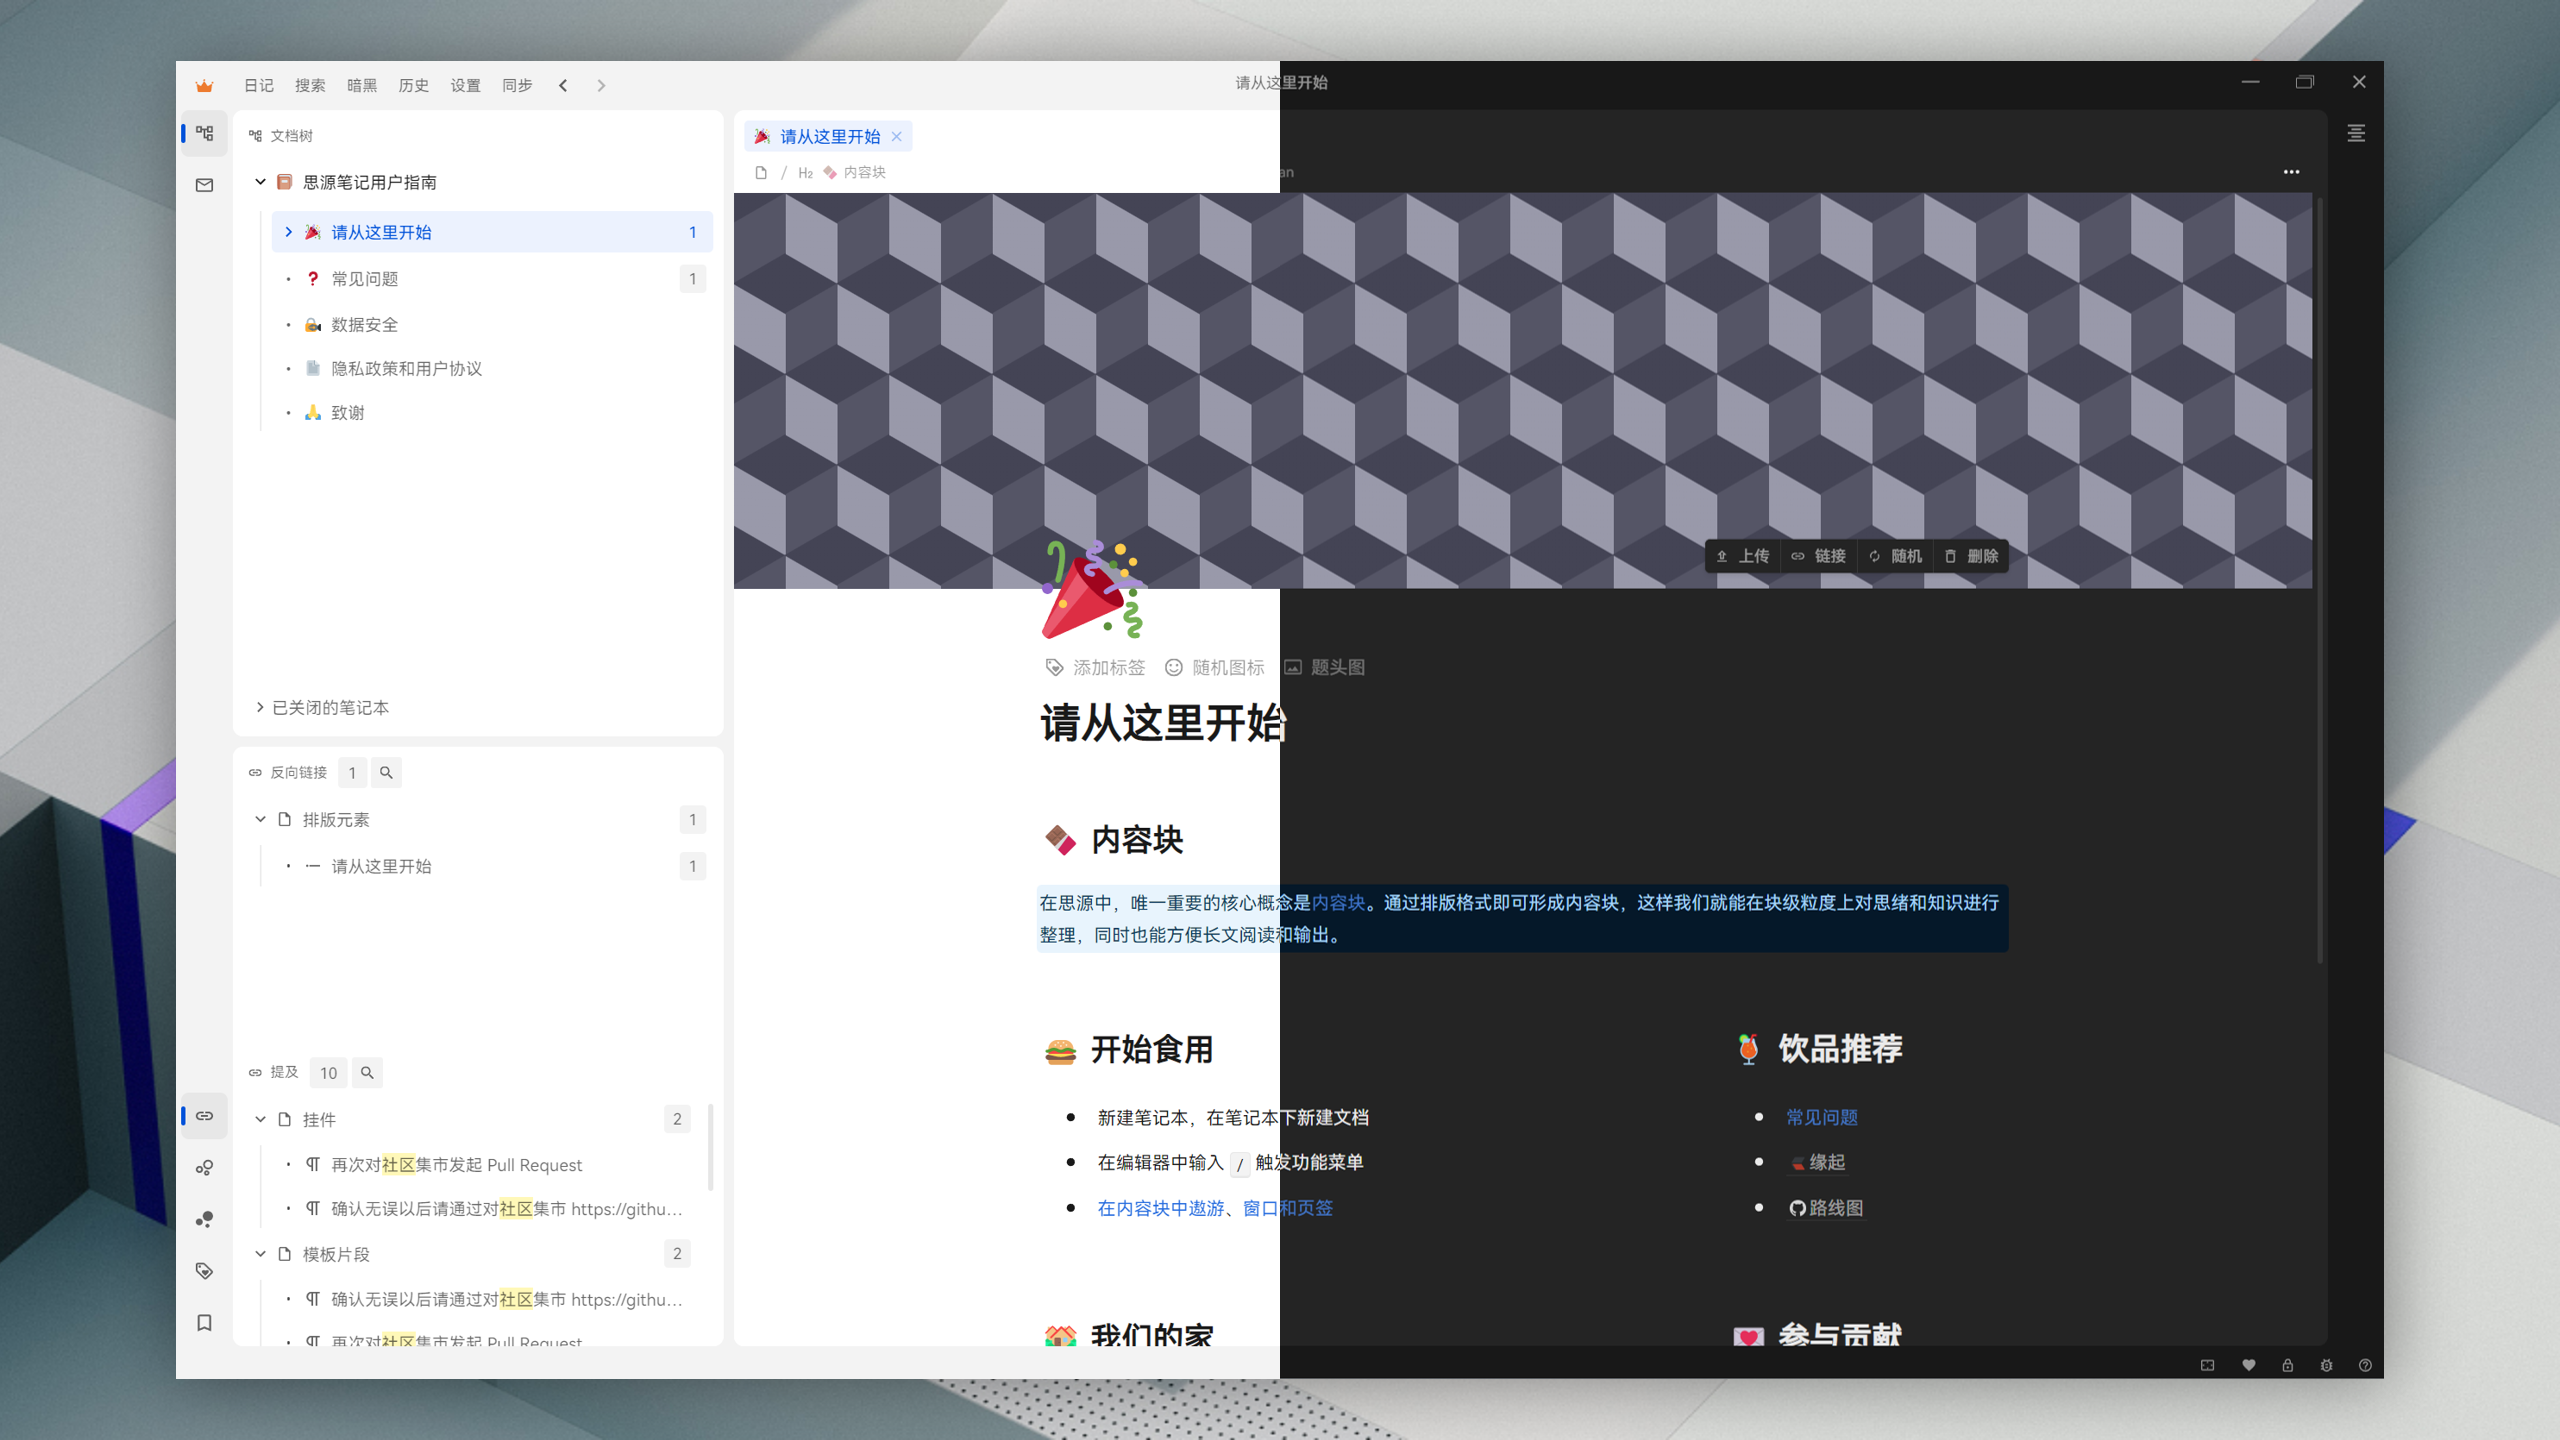
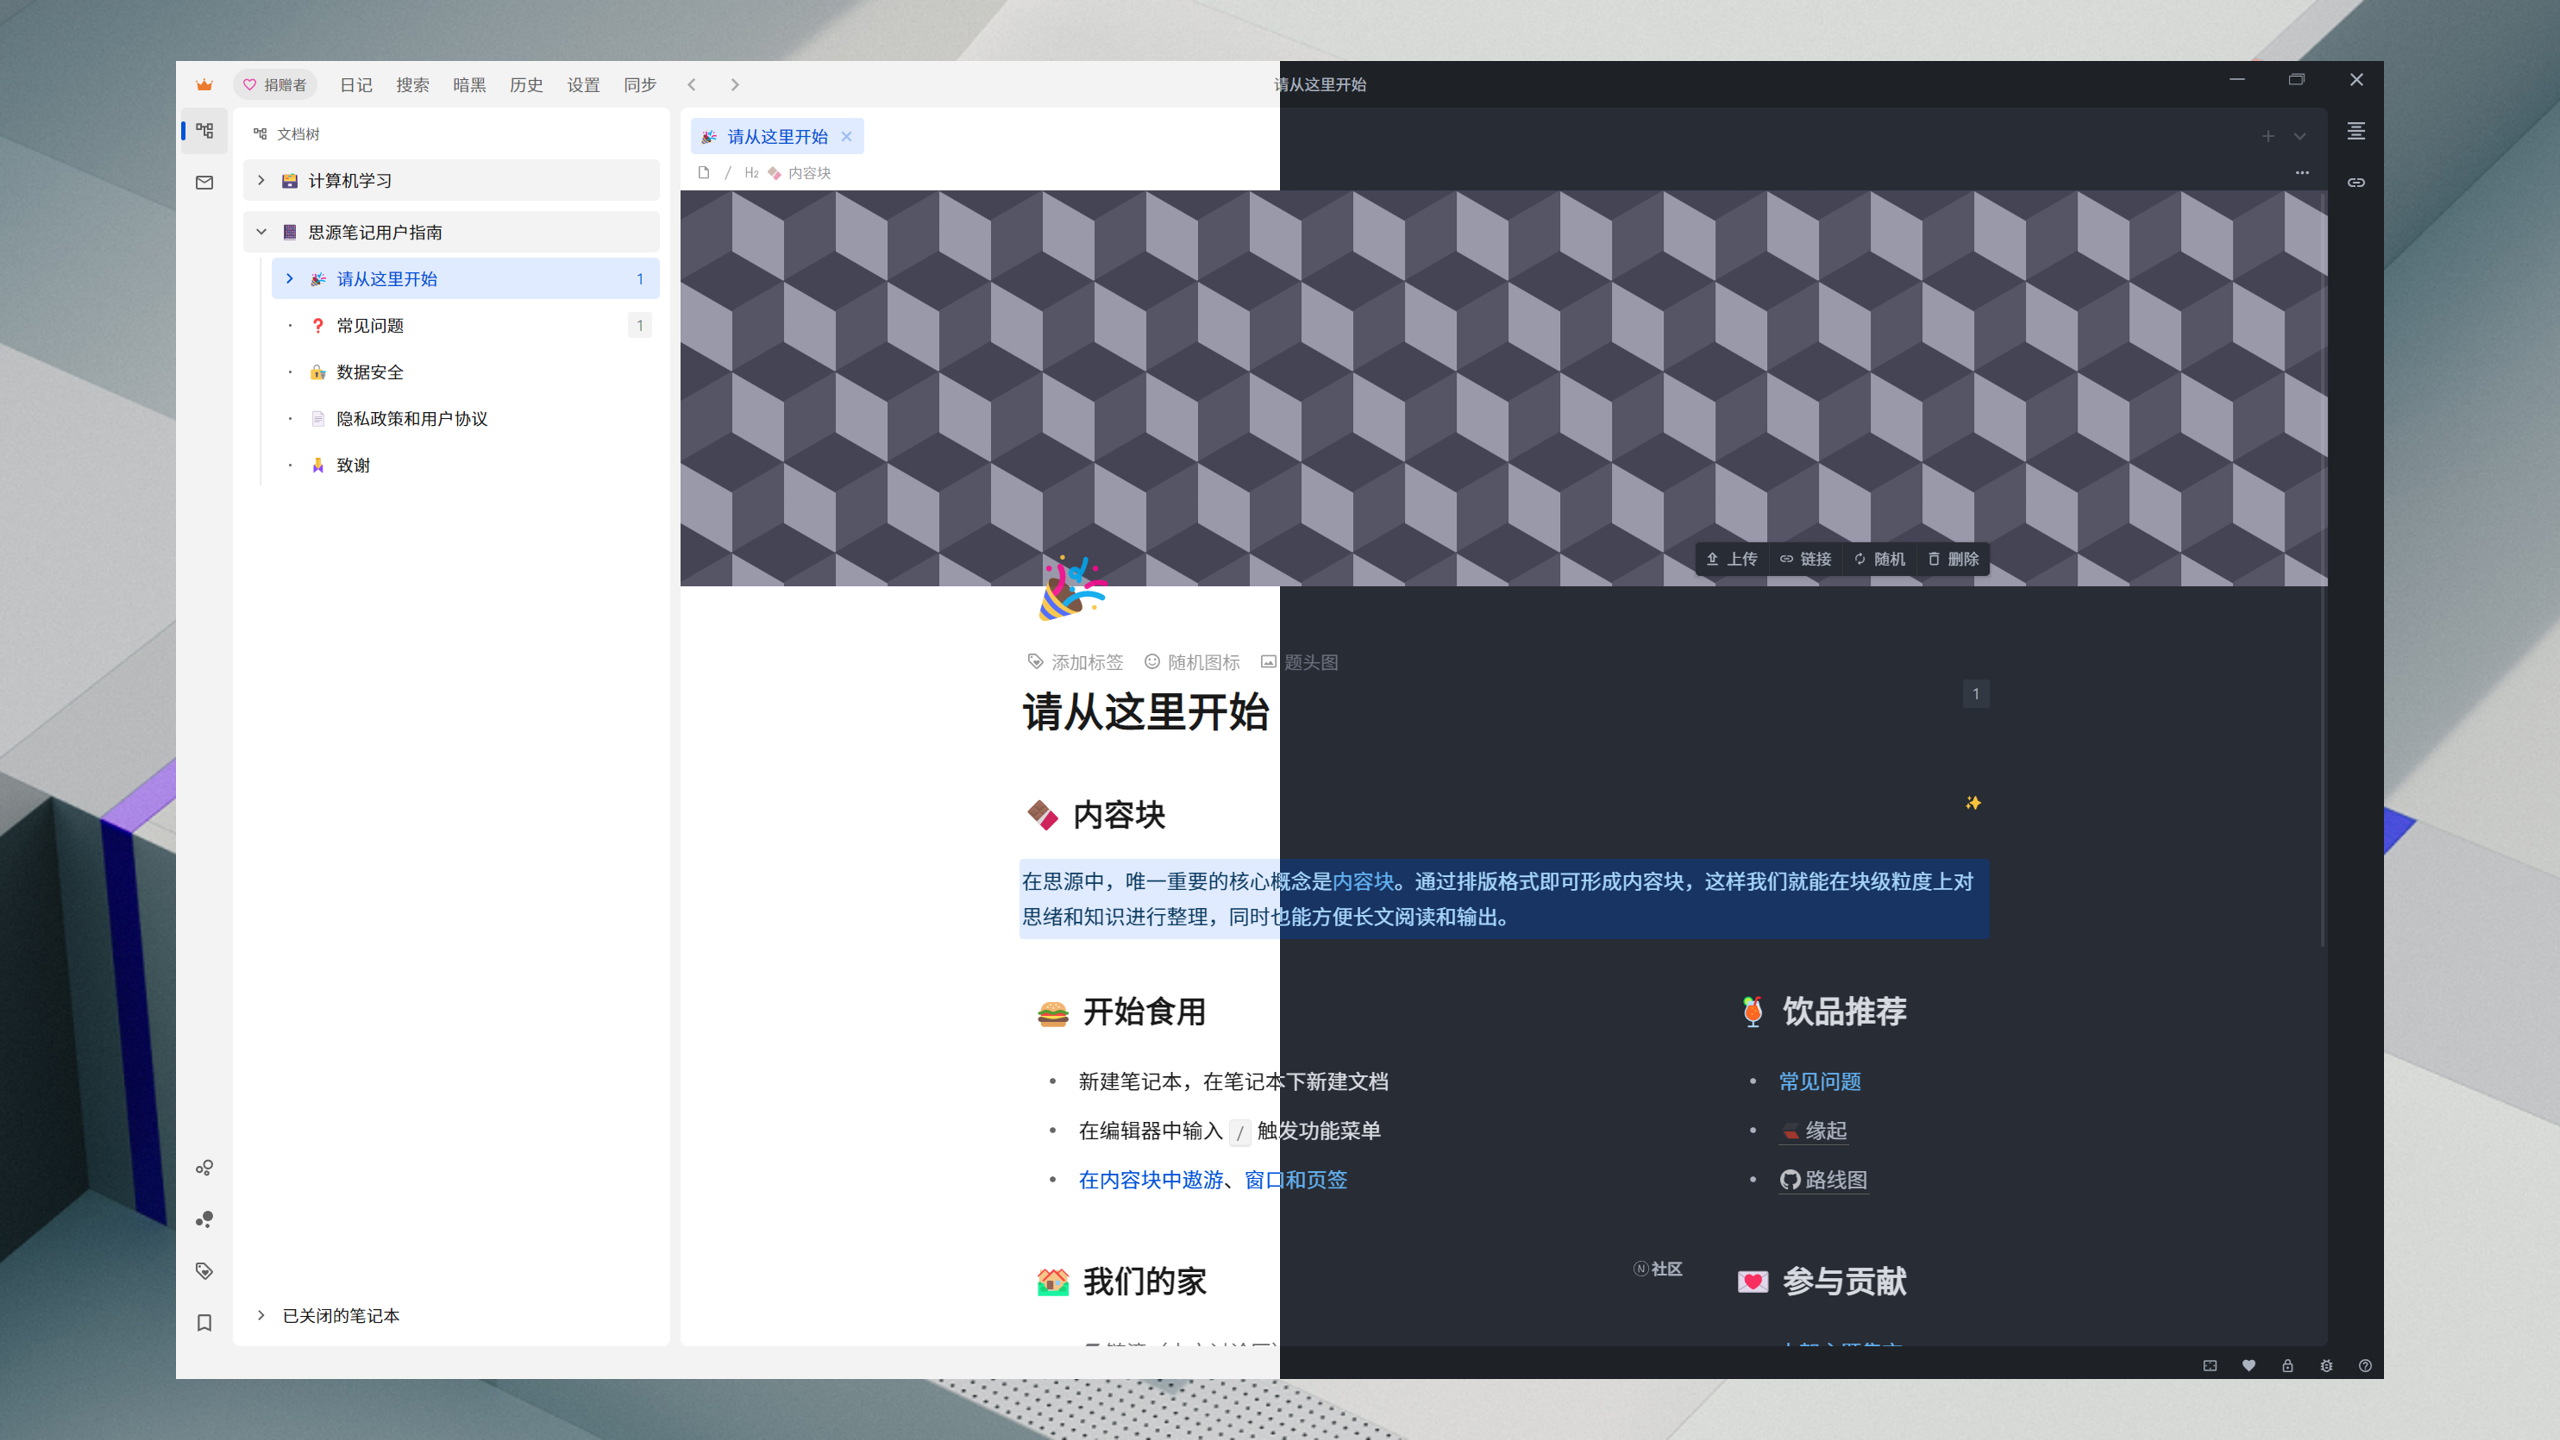
docs: :memo: 更新readme及预览图

diff --git a/README.md b/README.md
@@ -8,7 +8,7 @@
 
 一款现代化、平面化设计的思源笔记主题
 
-<img width="1280" alt="preview" src="https://user-images.githubusercontent.com/61345763/180918033-f97016ce-1bcb-449e-929a-c863b5696e06.png">
+![preview](https://user-images.githubusercontent.com/61345763/190652183-501f01ca-93da-41d5-b5ee-ca35d3035be1.png)
 
 ## 参考样式
 
@@ -28,6 +28,19 @@
 - Rem Note 的文档树
 - Logseq 的页签
 
+## Roadmap
+
+### 短期计划
+
+1. mini-plugins：用户自定义使用css片段，完善css片段版本、作者及等功能描述信息，方便后期维护。
+2. themes：用户自定义主题风格和主题色，主题自带tdesign、semi-design及one-dark三种风格。
+3. Admonitions：也叫call-out，各类定义好的引述模板。[（参考链接）](https://squidfunk.github.io/mkdocs-material/reference/admonitions/)
+
+### 长期计划
+
+1. 列表转导图等额外辅助功能
+2. 图片、pdf浏览界面美化
+
 ## ❗注意事项
 
 1. 设置、搜索等大弹窗的关闭按钮被隐藏了，点击周围空白处即可关闭
@@ -38,6 +51,6 @@
 - 参考了[Achuan-2](https://github.com/Achuan-2)大佬的[Tsundoku Light](https://github.com/Achuan-2/siyuan-themes-tsundoku-light)主题中的超链接自动展示图标功能
 - 感谢[royc01](https://github.com/royc01)大佬提供的文档树辅助线思路
 
-## 更改日志
+## 版本日志
 
 [CHANGELOG](CHANGELOG.md)
